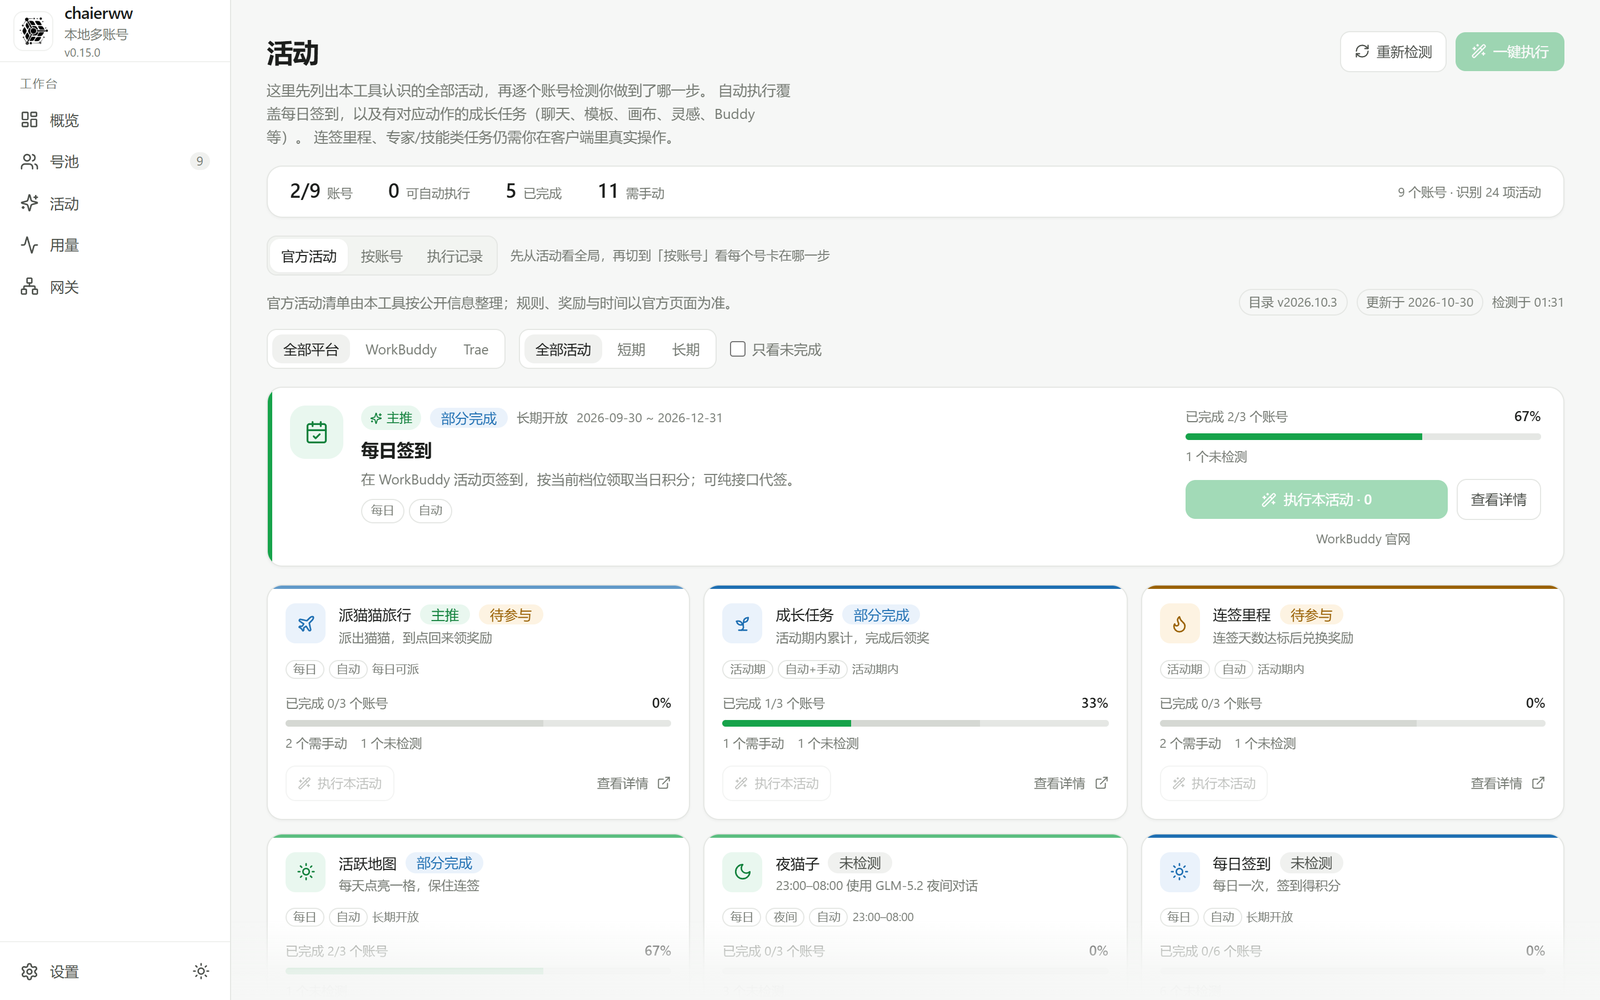
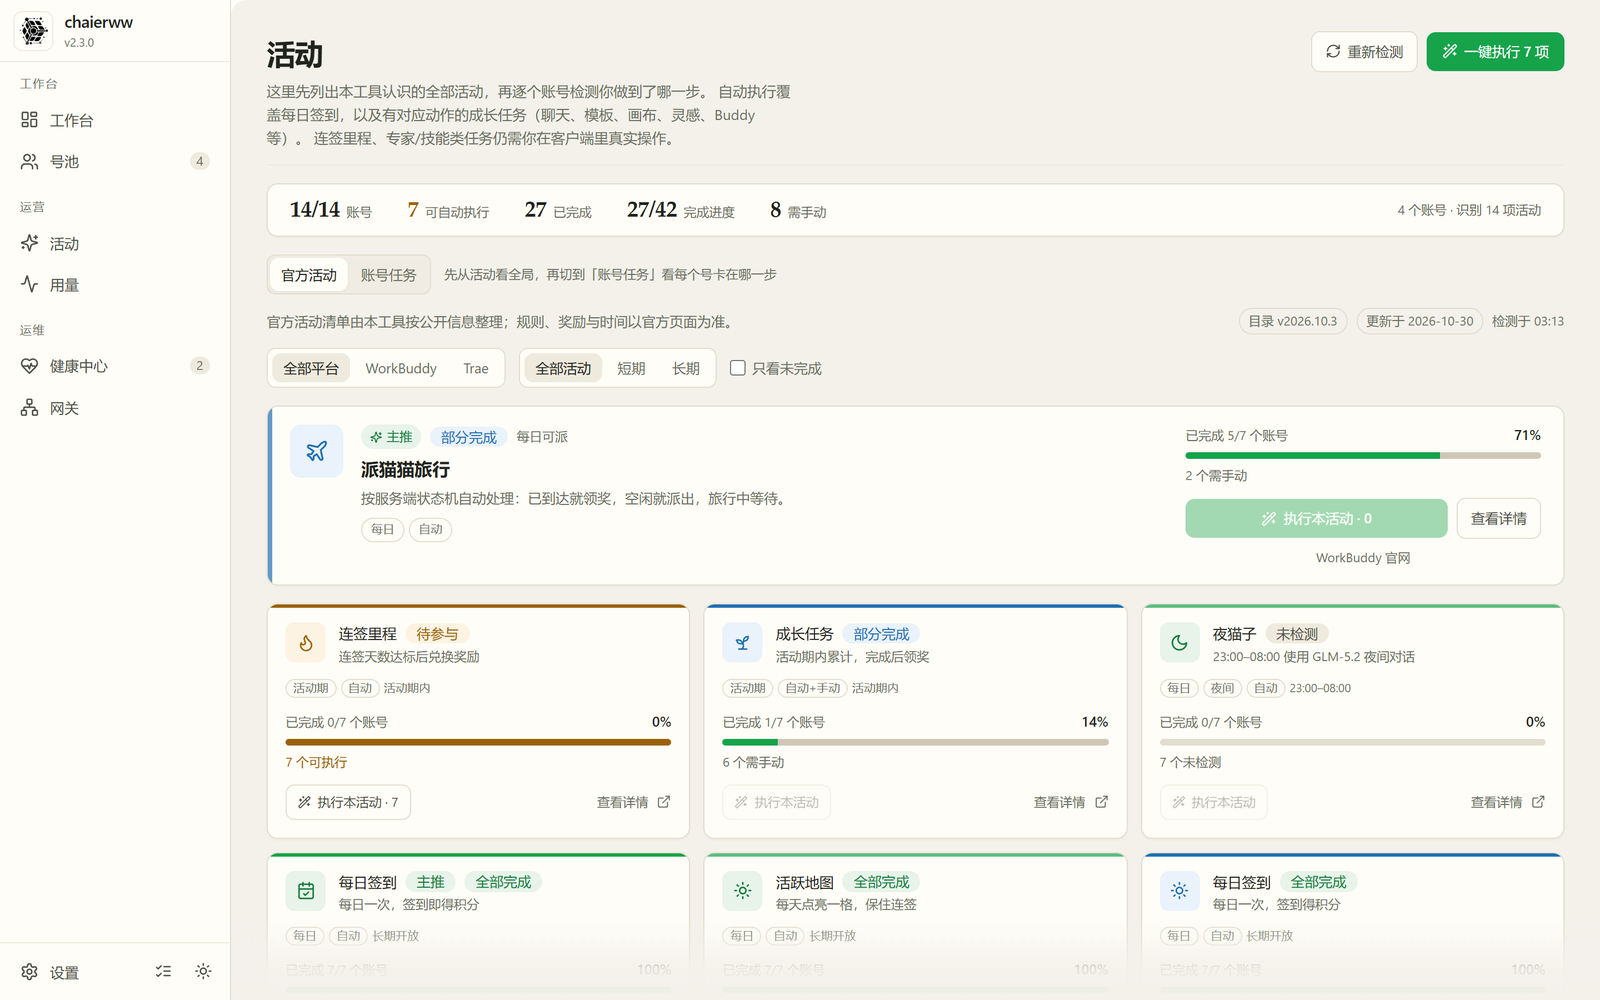
docs: 2.3.0 文档与截图同步

diff --git a/README.en.md b/README.en.md
@@ -101,6 +101,14 @@ Then the hard limits — these are constraints, not a roadmap:
 
 ## Interface
 
+<p align="center">
+  <img src="docs/images/titlebar.png" alt="chaierww desktop title bar menus" width="700">
+</p>
+
+<p align="center">
+  <sub>Desktop title bar: collapse, search, and the File / Edit / View / Help menus — every action carries its shortcut; Alt+F/E/V/H opens a menu</sub>
+</p>
+
 | Account pool · accounts, groups, credits, credential health in one view | Usage · requests and credits by model and day |
 | --- | --- |
 | ![Account pool](docs/images/accounts.png) | ![Usage](docs/images/usage.png) |
@@ -121,14 +129,15 @@ Then the hard limits — these are constraints, not a roadmap:
 | --- | --- |
 | ![Backup](docs/images/settings-backup.png) | ![Environment](docs/images/settings-env.png) |
 
-| General · which data to migrate, whether to relaunch after a switch | By account tasks · where each account is stuck, manual items inline |
+| Health center · an event stream for upstream schema, sign-in, supply and activity anomalies | Appearance & language · theme, language, updates and onboarding |
 | --- | --- |
-| ![General](docs/images/settings-general.png) | ![By account tasks](docs/images/activity-accounts.png) |
+| ![Health center](docs/images/health.png) | ![Appearance & language](docs/images/settings-general.png) |
 
 > Screenshots are taken after the DOM renders: account names, account IDs, emails, local
 > paths, gateway keys and IPs are replaced with dots or blur inside the page before the
 > shutter fires — not painted over manually afterwards, so layout changes do not need
-> re-measuring. The data shown is anonymized demo data, produced by `python scripts/shots.py`.
+> re-measuring. The data shown is anonymized demo data, produced by `python scripts/shots.py --demo`;
+> the title bar image is a desktop capture.
 
 ## Features
 
@@ -137,7 +146,8 @@ Grouped by the four things you actually do, with only the sharpest bullets kept:
 **Switching**
 
 - **One click to switch**: from an account card, the `Ctrl+K` command palette (search as you
-  type), or the desktop tray — all sharing one read-only preflight, with automatic rollback on failure
+  type, with pinyin and English aliases), or the desktop tray — all sharing one read-only
+  preflight, with automatic rollback on failure
 - **Look before you leap**: a read-only preview lists every file that would change; nothing is written
 - **Relaunch under your control**: whether the client restarts after a switch is a setting, not a default
 
@@ -188,6 +198,10 @@ Grouped by the four things you actually do, with only the sharpest bullets kept:
 <summary>Everything else (scheduling, backups, sessions, onboarding, local telemetry)</summary>
 
 - **Switch from anywhere**: account card, `Ctrl+K`, and tray all use the same preflight; relaunch-after-switch is configurable
+- **The title bar is a menu**: Edit / View / Help label each action with its shortcut (undo `Ctrl+Z`,
+  fullscreen `F11`, zoom `Ctrl+= / - / 0`, devtools `Ctrl+Shift+I`), and `Alt+F/E/V/H` opens them;
+  the search button opens the same palette as `Ctrl+K`, which understands pinyin and English
+  aliases (`hc` for the pool, `sz` for settings)
 - **Every run leaves a receipt**: one-click activity / renewal runs list successes, skips and failure reasons per item, retryable on the spot
 - **If it cannot read, it says so**: a failed backup read shows "unavailable" with a retry; loading gets a skeleton, never a fake `0` or empty state
 - **Patrol history**: each account keeps its last 20 patrol records — time, status, reason, next retry — across restarts; "resume" only clears the counter, not the history

diff --git a/README.md b/README.md
@@ -97,6 +97,14 @@
 
 ## 界面
 
+<p align="center">
+  <img src="docs/images/titlebar.png" alt="chaierww 桌面端顶栏菜单" width="700">
+</p>
+
+<p align="center">
+  <sub>桌面端顶栏：折叠、搜索与文件 / 编辑 / 查看 / 帮助四菜单，菜单项都带键帽，Alt+F/E/V/H 也能展开</sub>
+</p>
+
 | 号池 · 账号、分组、积分、凭据状态一屏看全 | 用量 · 请求 + 积分，按模型、按日趋势 |
 | --- | --- |
 | ![号池](docs/images/accounts.png) | ![用量](docs/images/usage.png) |
@@ -117,13 +125,14 @@
 | --- | --- |
 | ![备份](docs/images/settings-backup.png) | ![环境](docs/images/settings-env.png) |
 
-| 常规 · 迁移哪几类数据、切完是否自动拉起，逐项可控 | 账号任务 · 每个号卡在哪一步，手动项就地展开 |
+| 健康中心 · 上游结构、登录、供给与活动的异常事件流 | 外观与语言 · 主题、语言、版本更新与新手引导 |
 | --- | --- |
-| ![常规](docs/images/settings-general.png) | ![账号任务](docs/images/activity-accounts.png) |
+| ![健康中心](docs/images/health.png) | ![外观与语言](docs/images/settings-general.png) |
 
 > 截图是脚本渲染完 DOM 再截的：账号名、账号 ID、邮箱、本机路径、网关 Key、IP
 > 在快门按下之前就已经在页面里被替换成圆点或模糊，不是事后按坐标手画的，
-> 所以界面改版也不用重新量坐标。图为脱敏后的演示数据，生成方式是 `python scripts/shots.py`。
+> 所以界面改版也不用重新量坐标。图为脱敏后的演示数据，生成方式是 `python scripts/shots.py --demo`；
+> 顶栏那张取自桌面端实拍。
 
 ## 功能
 
@@ -131,7 +140,7 @@
 
 **换号**
 
-- **点一下就换**：号池卡片、`Ctrl+K` 命令面板（输入即搜账号）、桌面托盘三处都能发起，
+- **点一下就换**：号池卡片、`Ctrl+K` 命令面板（输入即搜账号，也认拼音与英文别名）、桌面托盘三处都能发起，
   走同一套只读预检；失败自动回滚到切换前快照
 - **先看再动手**：切换前只读预演，列出会动哪些文件，不写一个字节
 - **切完自己拉起**：是否自动重启客户端可在「设置 → 账号与切换」关掉
@@ -174,6 +183,9 @@
 <summary>其余细节（计划任务、备份、会话、引导、体验数据等）</summary>
 
 - **换号随处可发起**：号池卡片、`Ctrl+K`、托盘三处走同一套预检，切完是否自动拉起可配置
+- **顶栏就是菜单**：编辑 / 查看 / 帮助三组动作都带键帽（撤销 `Ctrl+Z`、全屏 `F11`、
+  缩放 `Ctrl+= / - / 0`、开发者工具 `Ctrl+Shift+I`），`Alt+F/E/V/H` 展开；搜索按钮与
+  `Ctrl+K` 打开同一个命令面板，面板认拼音与英文别名（`hc` 找号池、`sz` 找设置）
 - **执行有回执**：一键执行活动 / 续期后逐项列出成功、跳过与失败原因，失败可当场重试
 - **读不到就说读不到**：备份读取失败显示「暂不可查」并可重试，加载中给骨架，不拿 0 或空态冒充
 - **巡检有历史**：每号保留最近 20 条巡检记录，卡片上可翻看时间、状态、原因与下次重试；

diff --git a/docs/QUICKSTART.en.md b/docs/QUICKSTART.en.md
@@ -84,6 +84,9 @@ Seeing an account in the pool means step 2 is done.
 
 ## 5. What else is there
 
+- **Top bar and command palette**: the search button in the desktop title bar opens the same
+  palette as `Ctrl+K` — type `hc` for the account pool, `sz` for settings, or an account name;
+  the Edit / View / Help menus label every action with its shortcut.
 - **Groups**: tag accounts ("primary", "backup", …), filter the pool by group, assign in bulk,
   and pick a scheduled task's accounts by group with one click.
 - **Activities**: the official catalogue lists rules and rewards; automatable ones run in one

diff --git a/docs/QUICKSTART.md b/docs/QUICKSTART.md
@@ -82,6 +82,8 @@
 
 ## 5. 接下来可以做什么
 
+- **顶栏与命令面板**：桌面端顶栏的搜索按钮和 `Ctrl+K` 打开同一个面板，敲 `hc` 找号池、
+  `sz` 找设置，也能直接搜账号；编辑 / 查看 / 帮助菜单里的动作都标了快捷键。
 - **分组**：给账号打上「主力号 / 备用号」这类标签，号池按组筛选、批量设组，
   计划任务的账号范围也能按组一键勾选。
 - **活动**：官方活动目录写清规则与奖励；能自动的一键跑完，做不了的手动项写明怎么做，
